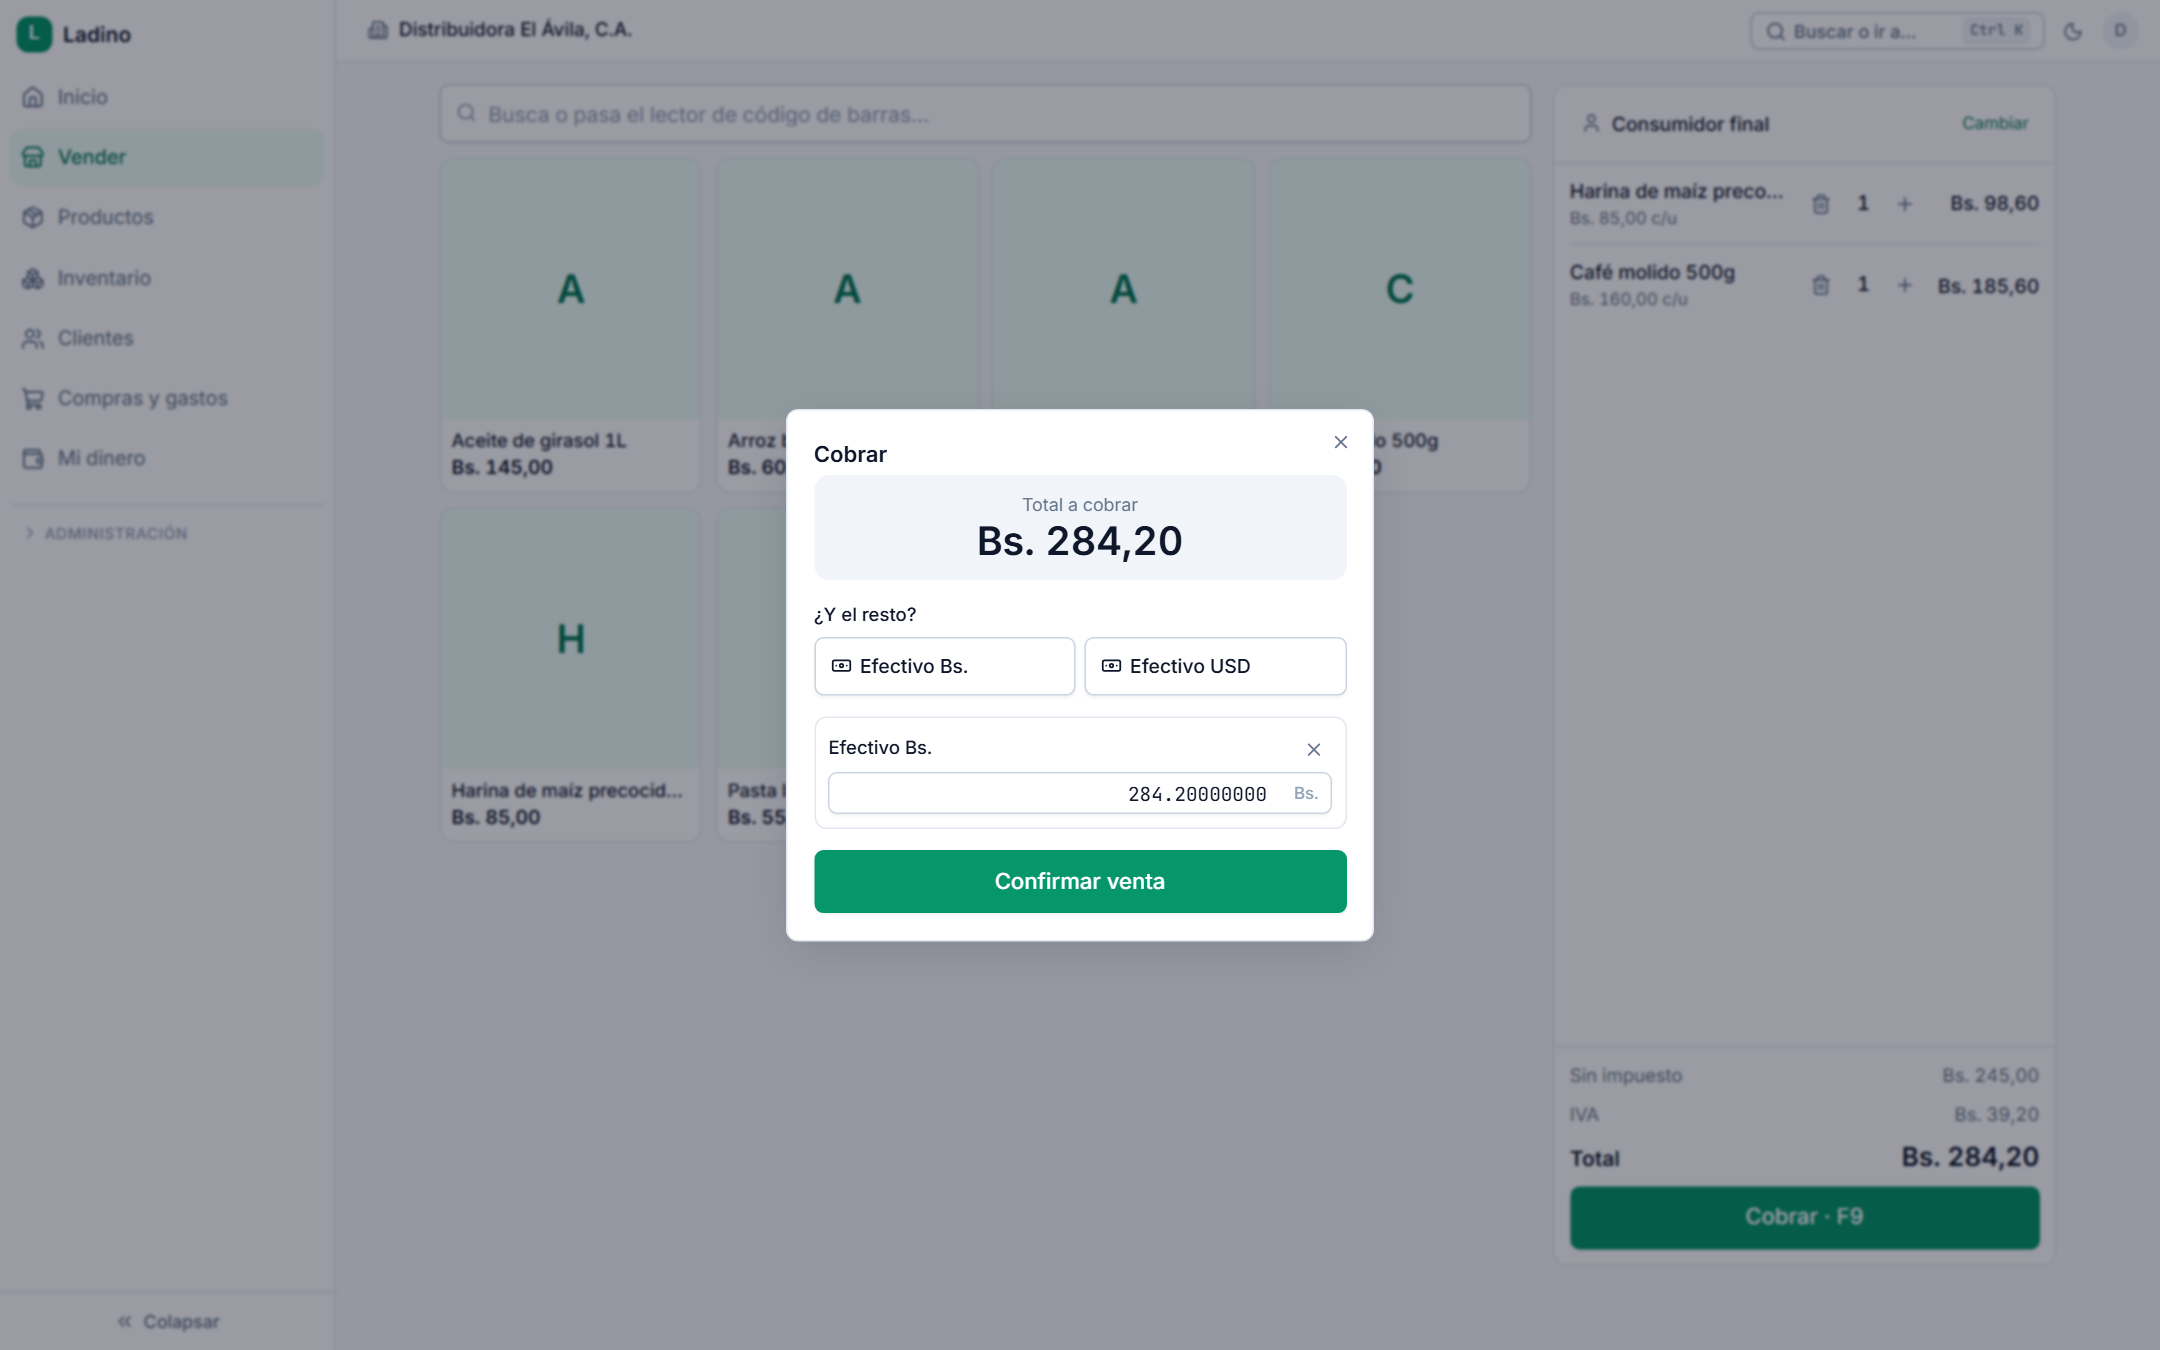
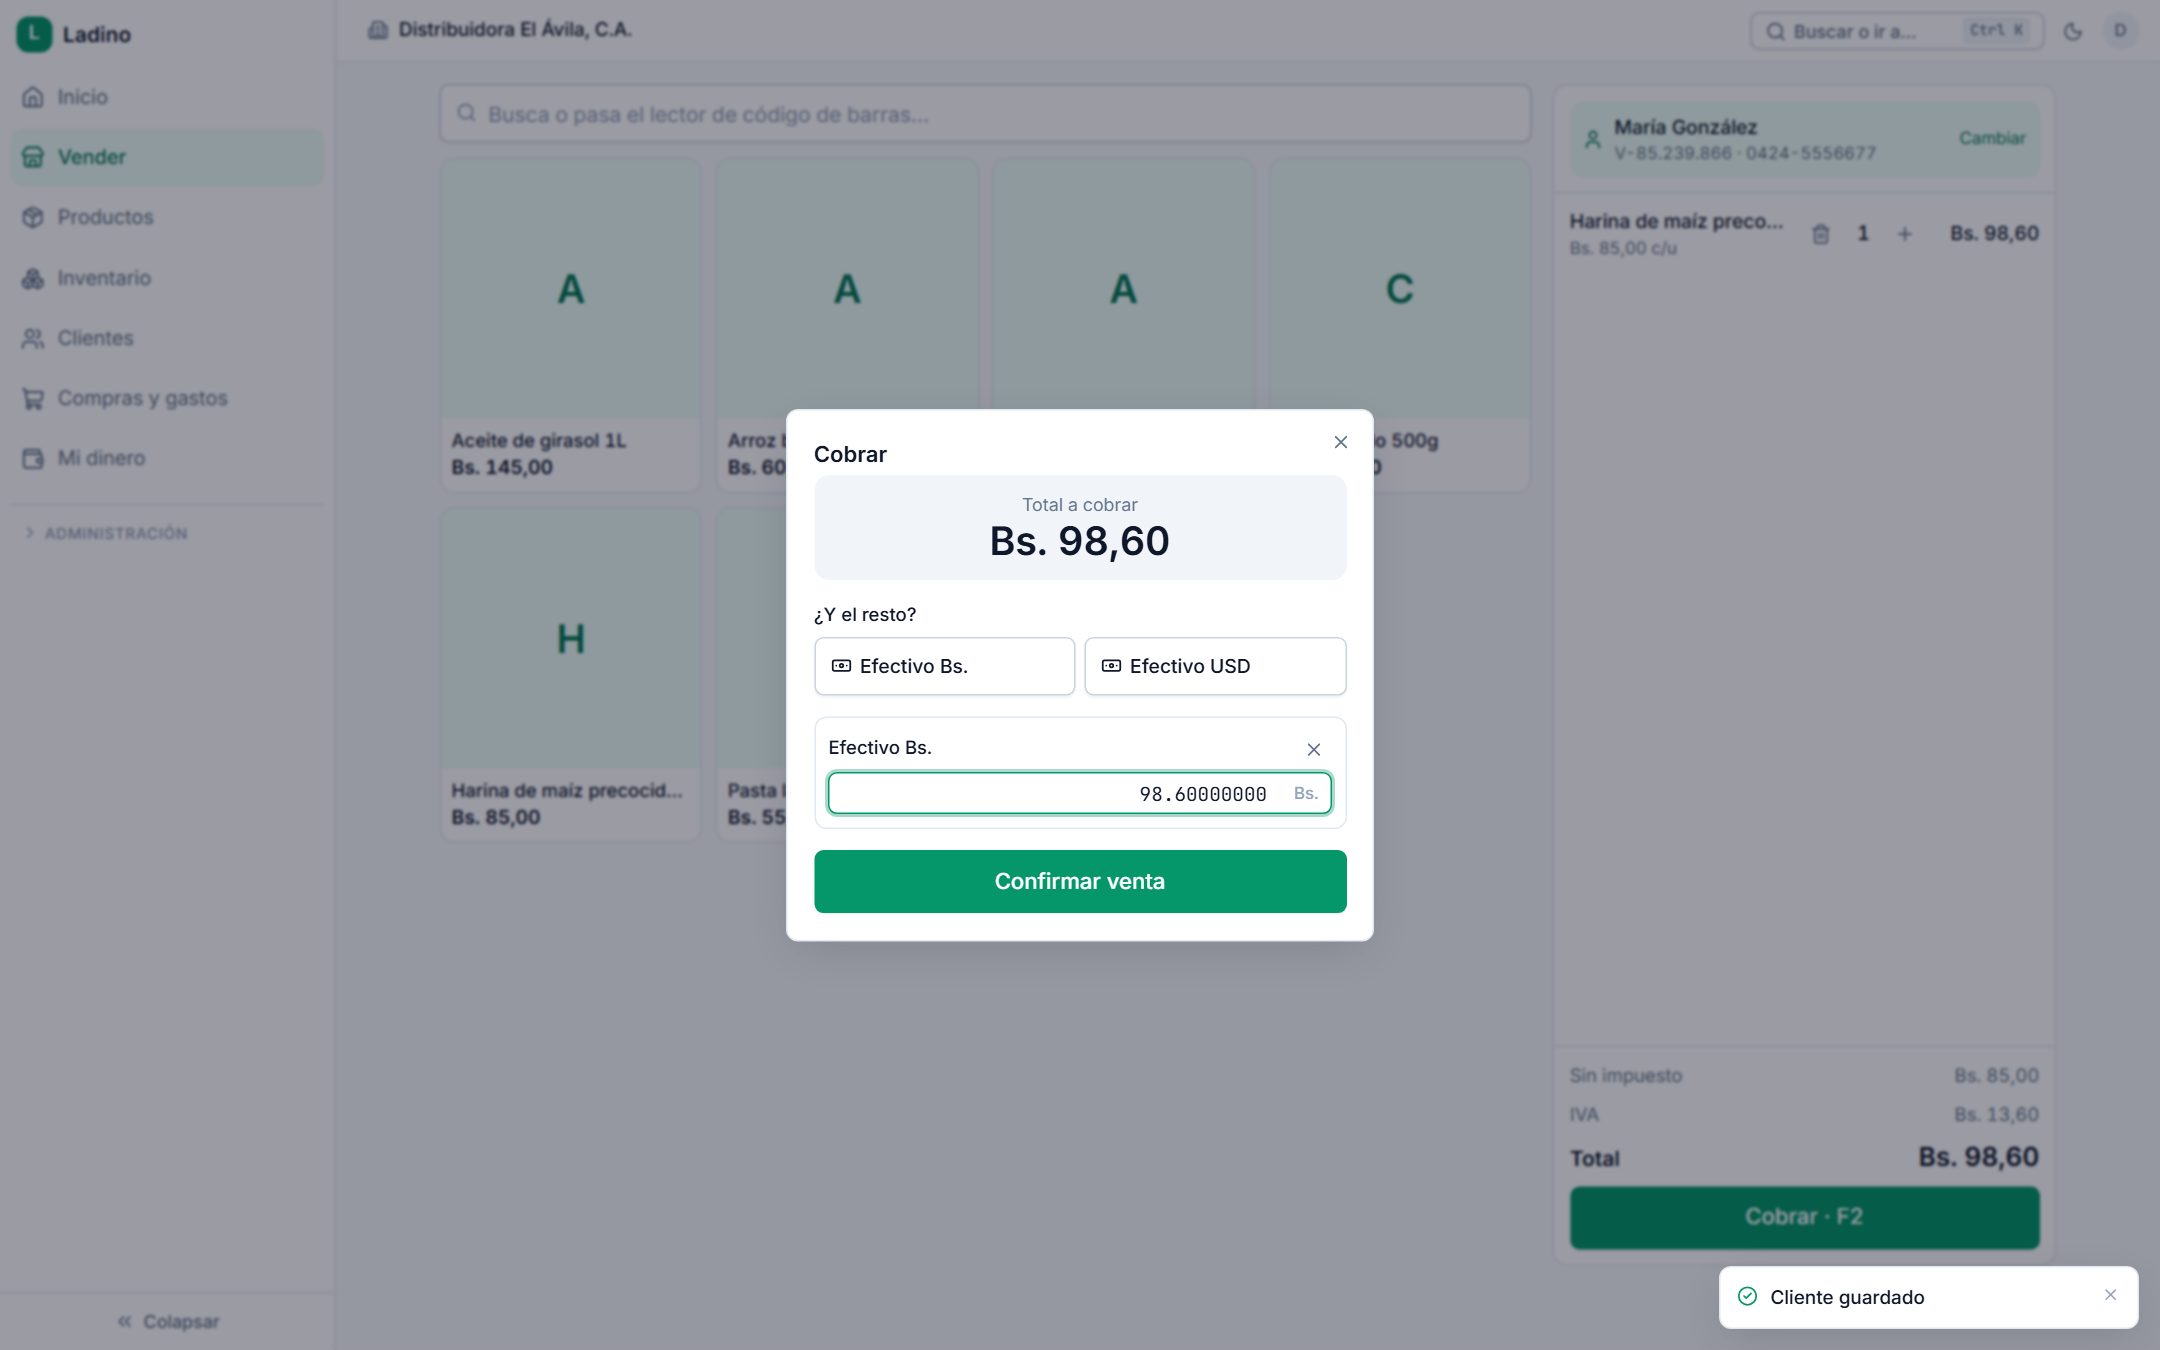
docs: acceptance updated for the cédula-first flow
RECORRIDO_PRIMER_DIA.md rewritten around the new bar: a cash sale to an
EXISTING customer in at most 6 interactions from /vender (cédula + Enter
count as 2) — it lands exactly on 6; a new customer adds the three of the
inline mini-form. Captures 03-05 renewed (empty document field, inline
quick-create, identified checkout) plus 25-26 (customer found in two
seconds, success screen). HANDOFF records the change, the closing of
R-05's customer side, the normalized natural key, and that migration 33
is live on the remote (33/33, identical fingerprints).

diff --git a/docs/08_UX/capturas-fase-c/RECORRIDO_PRIMER_DIA.md b/docs/08_UX/capturas-fase-c/RECORRIDO_PRIMER_DIA.md
@@ -5,8 +5,9 @@ de una persona con su negocio. Cada flujo cuenta los clics de verdad, medidos so
 pantallas reales (las capturas de esta carpeta salen de un navegador de verdad contra la API
 local, con la empresa de demostración).
 
-**La vara de la fase: una venta de un producto pagada en efectivo, en 5 clics o menos.**
-Resultado: **4 clics.** Detalle abajo.
+**La vara vigente: una venta en efectivo a cliente EXISTENTE en 6 interacciones o menos desde
+`/vender` (la cédula + Enter cuentan como 2).** Resultado: **6.** A cliente nuevo se suman las
+tres del mini-formulario, y está bien. Detalle abajo.
 
 ---
 
@@ -37,18 +38,34 @@ cuando el servidor confirma cada uno:
 
 Con los cuatro en verde: «¡Listo! Tu negocio ya puede vender» → **Ir a vender**.
 
-## 2. La primera venta (`/vender`, capturas 3–5) — **4 clics**
+## 2. La primera venta (`/vender`, capturas 3–5 y 25–26) — la venta EMPIEZA POR LA CÉDULA
 
-| # | Clic | Qué pasa |
-| --- | ------------------------------ | ----------------------------------------------------------------- |
-| 1 | La foto del producto | Entra al carrito. El total lo cotiza el **servidor** en cada cambio |
-| 2 | **COBRAR** | Se abre el cobro con el total en Bs y su equivalente |
-| 3 | **Efectivo (Bs)** | La forma de pago; el monto ya viene puesto con el total |
-| 4 | **Confirmar** | Factura emitida + cobro registrado. Pantalla de éxito con PDF y WhatsApp |
+Es el flujo real de una caja venezolana: lo primero que pide el cajero es el documento. El
+carrito arranca con un campo grande con el foco puesto (prefijo V/E/J/G/P + número; si el
+cajero teclea «J401234567», el prefijo se pone solo).
 
-Con vuelto: se teclea cuánto entregó el cliente y **el vuelto lo calcula el servidor** —
-la pantalla no suma ni un céntimo. Cliente por omisión: Consumidor final; buscar con la
-lupa o el lector de código de barras (Enter agrega directo).
+**A cliente EXISTENTE — 6 interacciones:**
+
+| # | Interacción | Qué pasa |
+| --- | ---------------------- | ------------------------------------------------------------------ |
+| 1–2 | Cédula + **Enter** | Búsqueda exacta en el servidor. Chip con nombre y teléfono («María González · V-85.239.866 · 0424-5556677»); el foco salta a productos |
+| 3 | El producto (o Enter) | Entra al carrito. El total lo cotiza el **servidor** en cada cambio |
+| 4 | **COBRAR** (o F2) | Se abre el cobro con el total y su equivalente |
+| 5 | **Efectivo Bs.** | El monto ya viene puesto con el exacto |
+| 6 | **Confirmar** (o Enter) | Factura emitida + cobro registrado, con los datos del cliente CONGELADOS en el documento |
+
+**A cliente NUEVO** se suman las tres del mini-formulario inline — nombre, teléfono, Enter —
+sin salir de la pantalla: el tipo de cliente se infiere del prefijo y a una empresa (J/G) se
+le pide su domicilio fiscal, porque la factura lo lleva. Todo el recorrido va **sin ratón**:
+cédula → Enter → nombre → Tab → teléfono → Enter → producto → Enter → F2 → Enter.
+
+**«Venta sin identificar»** quedó como escape explícito (el enlace discreto bajo el campo):
+usa el Consumidor final de sistema. El dueño puede apagarlo en Configuración → Ventas, y
+entonces la cédula es obligatoria SIEMPRE — también para quien le hable a la API directo,
+porque el dominio lo rechaza.
+
+Con vuelto: se teclea cuánto entregó el cliente y **el vuelto lo calcula el servidor** — la
+pantalla no suma ni un céntimo. El lector de código de barras sigue igual: Enter agrega.
 
 ## 3. Entró mercancía (`/inventario`, capturas 9–11) — 4 clics + cantidad
 
@@ -85,7 +102,7 @@ pantalla viste, no suma.
 
 ## Las tres promesas de la fase, verificadas
 
-- **≤ 5 clics la venta simple**: 4. ✔
+- **≤ 6 interacciones la venta a cliente existente** (la vara del flujo con cédula): 6. ✔
 - **Cero jerga**: el glosario es un **gate dentro de `pnpm verify`** que recorre el fuente
   de `pages/negocio/**` y se pone rojo con SKU, kardex, asiento, CxC, régimen, Bs.S…
   Durante la fase cazó cuatro violaciones reales; ninguna se indultó. ✔
